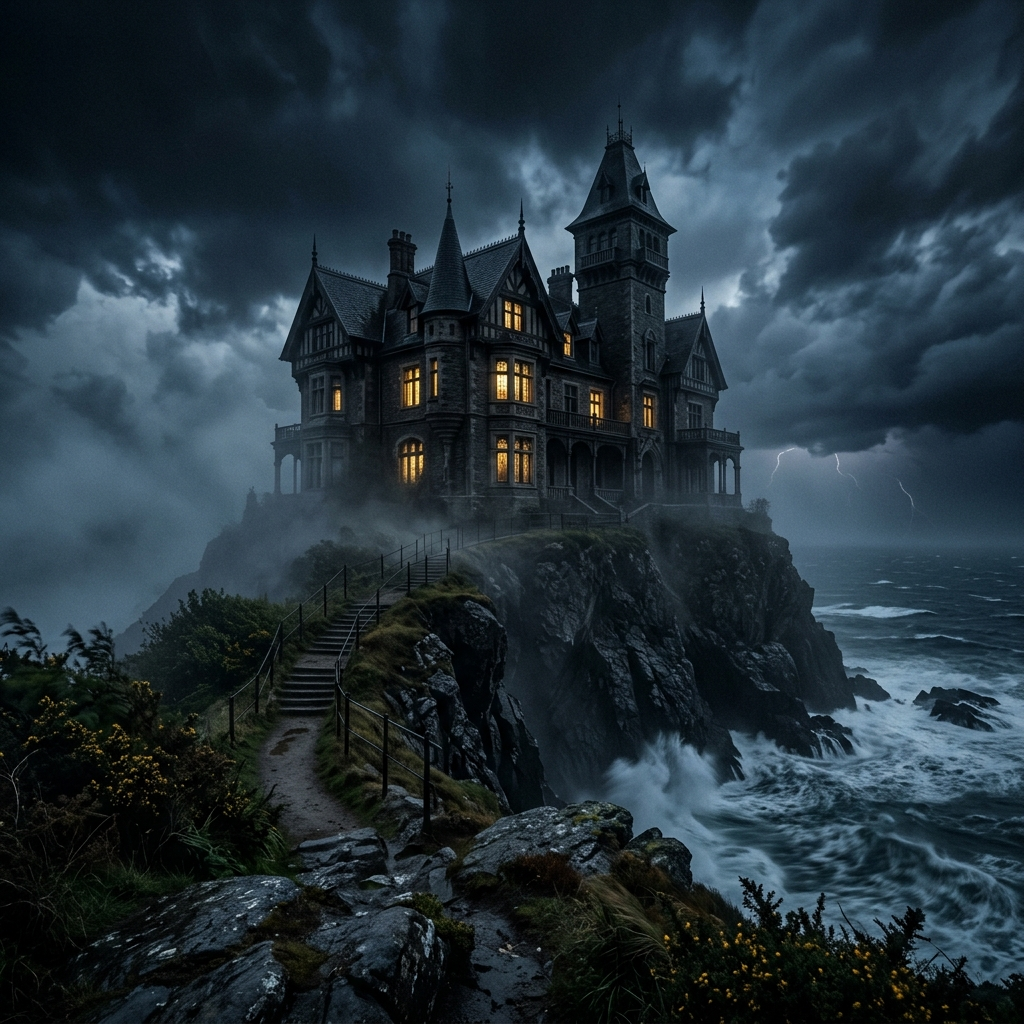
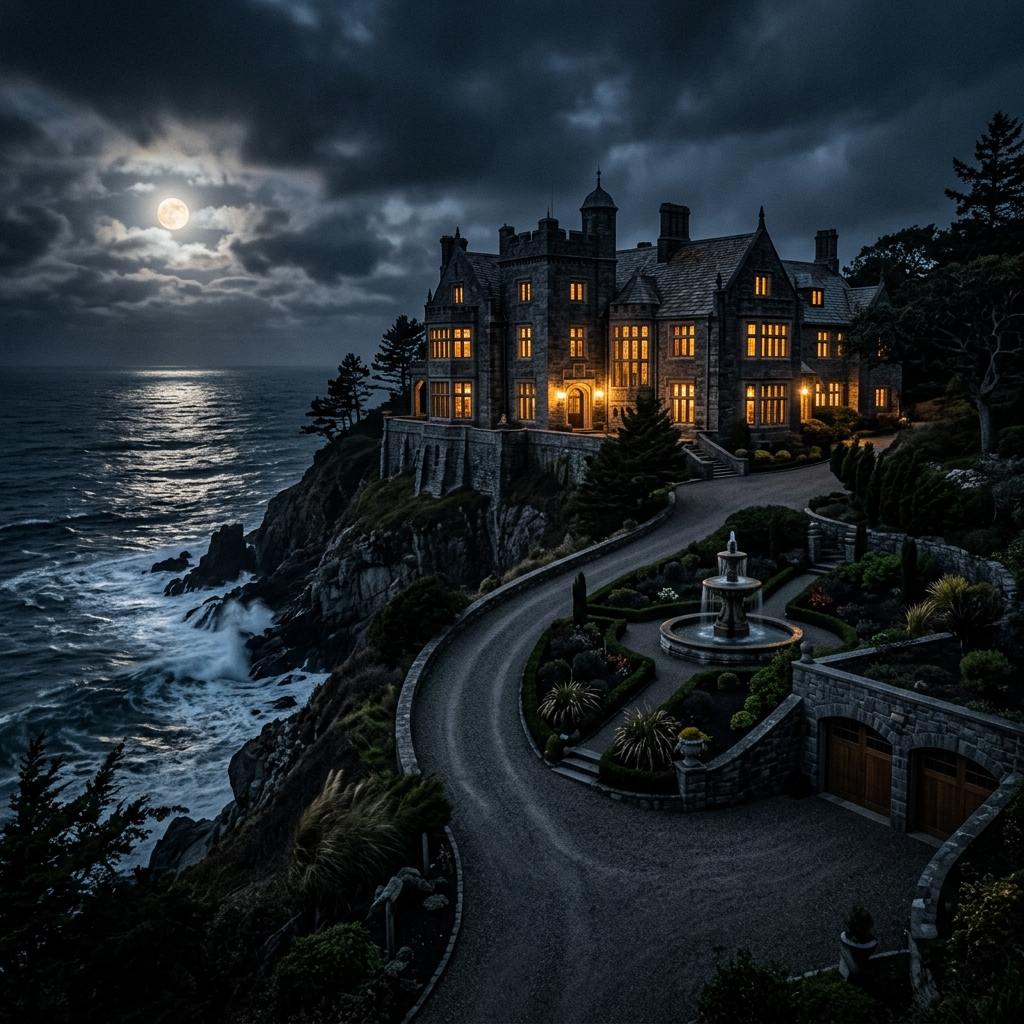
feat: replace map background with detailed cinematic AI image

diff --git a/frontend/src/pages/MapOverview.tsx b/frontend/src/pages/MapOverview.tsx
@@ -34,7 +34,7 @@ const MapOverview: React.FC = () => {
       {/* Background Completo (Planta Baixa) */}
       <div style={{ 
         position: 'absolute', top: 0, left: 0, width: '100%', height: '100%',
-        backgroundImage: 'url(/backgrounds/map_blackwell.png)', backgroundSize: 'cover', backgroundPosition: 'center', zIndex: 0,
+        backgroundImage: 'url(/backgrounds/map_blackwell.png?v=12)', backgroundSize: 'cover', backgroundPosition: 'center', zIndex: 0,
         opacity: 0.8
       }} />
 